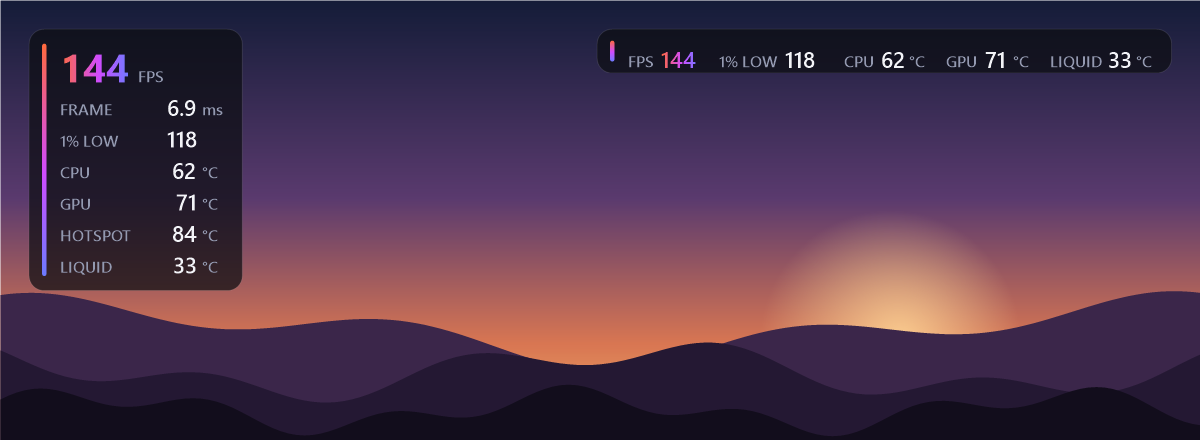
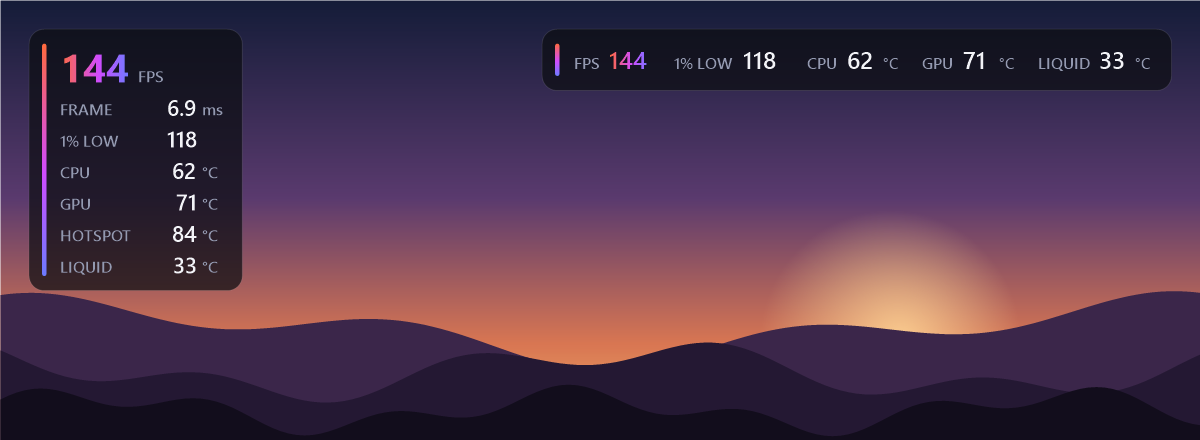
Overlay: compact layout matches the dashboard preview (full-height accent bar, centred baseline, preview font sizes and spacing)

Changed region(s): [[0.4317, 0.0591, 0.9867, 0.2068]]

diff --git a/src/Glint/Overlay/OverlayRenderer.cs b/src/Glint/Overlay/OverlayRenderer.cs
@@ -30,6 +30,8 @@ public static class OverlayRenderer
     {
         public readonly double S;
         public readonly Font Label, Value, Unit, Hero;
+        /// <summary>Compact (one-line) layout: same proportions as the dashboard preview (13 px base: label .82em, value 1.25em, unit .78em).</summary>
+        public readonly Font CLabel, CValue, CUnit;
         public Fonts(double s)
         {
             S = s;
@@ -37,8 +39,11 @@ public static class OverlayRenderer
             Value = new Font("Segoe UI Semibold", (float)(15 * s), GraphicsUnit.Pixel);
             Unit = new Font("Segoe UI Semibold", (float)(10.5 * s), GraphicsUnit.Pixel);
             Hero = new Font("Segoe UI", (float)(27 * s), FontStyle.Bold, GraphicsUnit.Pixel);
+            CLabel = new Font("Segoe UI Semibold", (float)(10.7 * s), GraphicsUnit.Pixel);
+            CValue = new Font("Segoe UI Semibold", (float)(16.25 * s), GraphicsUnit.Pixel);
+            CUnit = new Font("Segoe UI Semibold", (float)(10.1 * s), GraphicsUnit.Pixel);
         }
-        public void Dispose() { Label.Dispose(); Value.Dispose(); Unit.Dispose(); Hero.Dispose(); }
+        public void Dispose() { Label.Dispose(); Value.Dispose(); Unit.Dispose(); Hero.Dispose(); CLabel.Dispose(); CValue.Dispose(); CUnit.Dispose(); }
     }
     static Fonts? _fonts;
     /// <summary>Drop cached fonts (overlay switched off).</summary>
@@ -49,6 +54,7 @@ public static class OverlayRenderer
     static string Zeros(string t) => new(t.Select(c => char.IsDigit(c) ? '0' : c).ToArray());
     /// <summary>Distance from the top of a drawn string to its baseline.</summary>
     static float Ascent(Font f) => f.Size * f.FontFamily.GetCellAscent(f.Style) / f.FontFamily.GetEmHeight(f.Style);
+    static float Descent(Font f) => f.Size * f.FontFamily.GetCellDescent(f.Style) / f.FontFamily.GetEmHeight(f.Style);
 
     readonly record struct Piece(string Text, Font Font, float X, float Baseline, Brush? Brush, Color Color, RectangleF Box);
 
@@ -72,19 +78,21 @@ public static class OverlayRenderer
         float left = 21 * u, padR = 13 * u, padY = 9 * u;
         if (st.Compact)
         {
-            float x = left, h = 30 * u, baseLine = padY + Ascent(f.Value) + 1 * u;
+            // One line, like the dashboard preview: 10 px padding, a full-height accent bar with a 10 px gap, label/value/unit
+            // 6 px apart, items 16 px apart, all on one baseline. Height comes from the font's real ascent + descent.
+            float pad = 10 * u, x = 22 * u, asc = Ascent(f.CValue), h = pad * 2 + asc + Descent(f.CValue), baseLine = pad + asc;
             foreach (var r in rows)
             {
-                if (x > left) x += 14 * u;
+                if (x > 22 * u) x += 16 * u;
                 var label = r.Label.ToUpperInvariant();
-                pieces.Add(new Piece(label, f.Label, x, baseLine, null, Dim, default));
-                x += W(f.Label, label) + 5 * u;
-                float vw = Math.Max(W(f.Value, r.Value), W(f.Value, Zeros(r.Value)));
-                pieces.Add(new Piece(r.Value, f.Value, x, baseLine, null, ValueColor(r, st), new RectangleF(x, baseLine - Ascent(f.Value), vw, f.Value.Size)));
+                pieces.Add(new Piece(label, f.CLabel, x, baseLine, null, Dim, default));
+                x += W(f.CLabel, label) + 6 * u;
+                float vw = Math.Max(W(f.CValue, r.Value), W(f.CValue, Zeros(r.Value)));
+                pieces.Add(new Piece(r.Value, f.CValue, x, baseLine, null, ValueColor(r, st), new RectangleF(x, baseLine - asc, vw, f.CValue.Size)));
                 x += vw;
-                if (r.Unit.Length > 0) { x += 2 * u; pieces.Add(new Piece(r.Unit, f.Unit, x, baseLine, null, Dim, default)); x += W(f.Unit, r.Unit); }
+                if (r.Unit.Length > 0) { x += 6 * u; pieces.Add(new Piece(r.Unit, f.CUnit, x, baseLine, null, Dim, default)); x += W(f.CUnit, r.Unit); }
             }
-            return (pieces, new SizeF(x + padR, h), 8 * u, h - 8 * u);
+            return (pieces, new SizeF(x + 14 * u, h), pad, h - pad);
         }
         // detailed: an optional hero FPS row, then label ........ value unit rows
         float y = padY, labelW = 0, valueW = 0, unitW = 0, heroW = 0;
